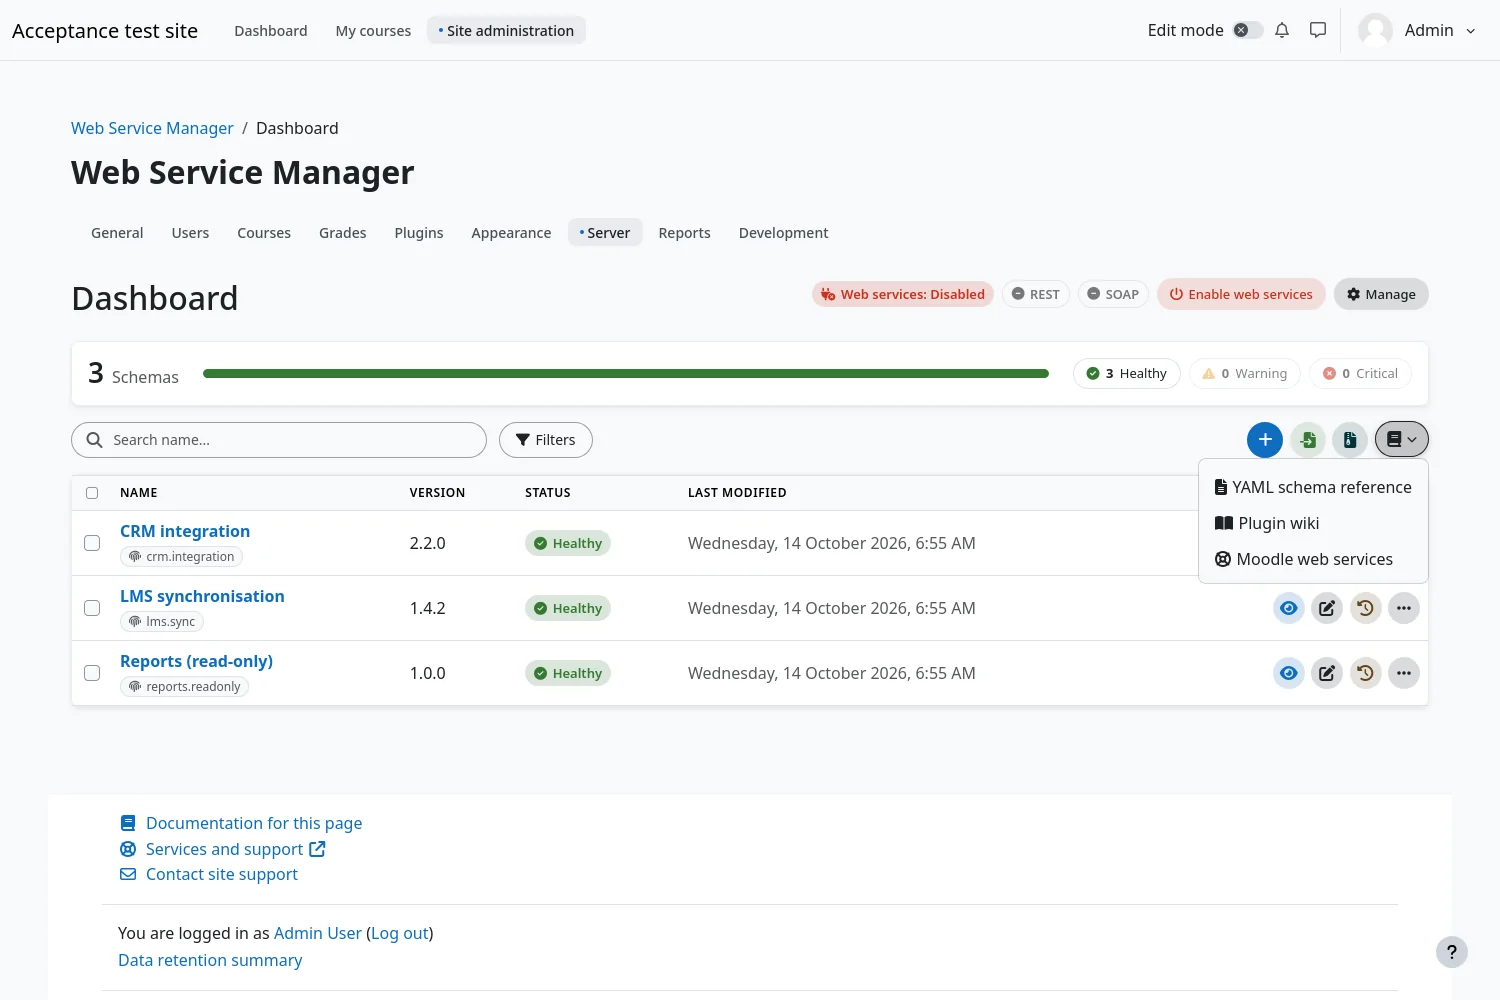
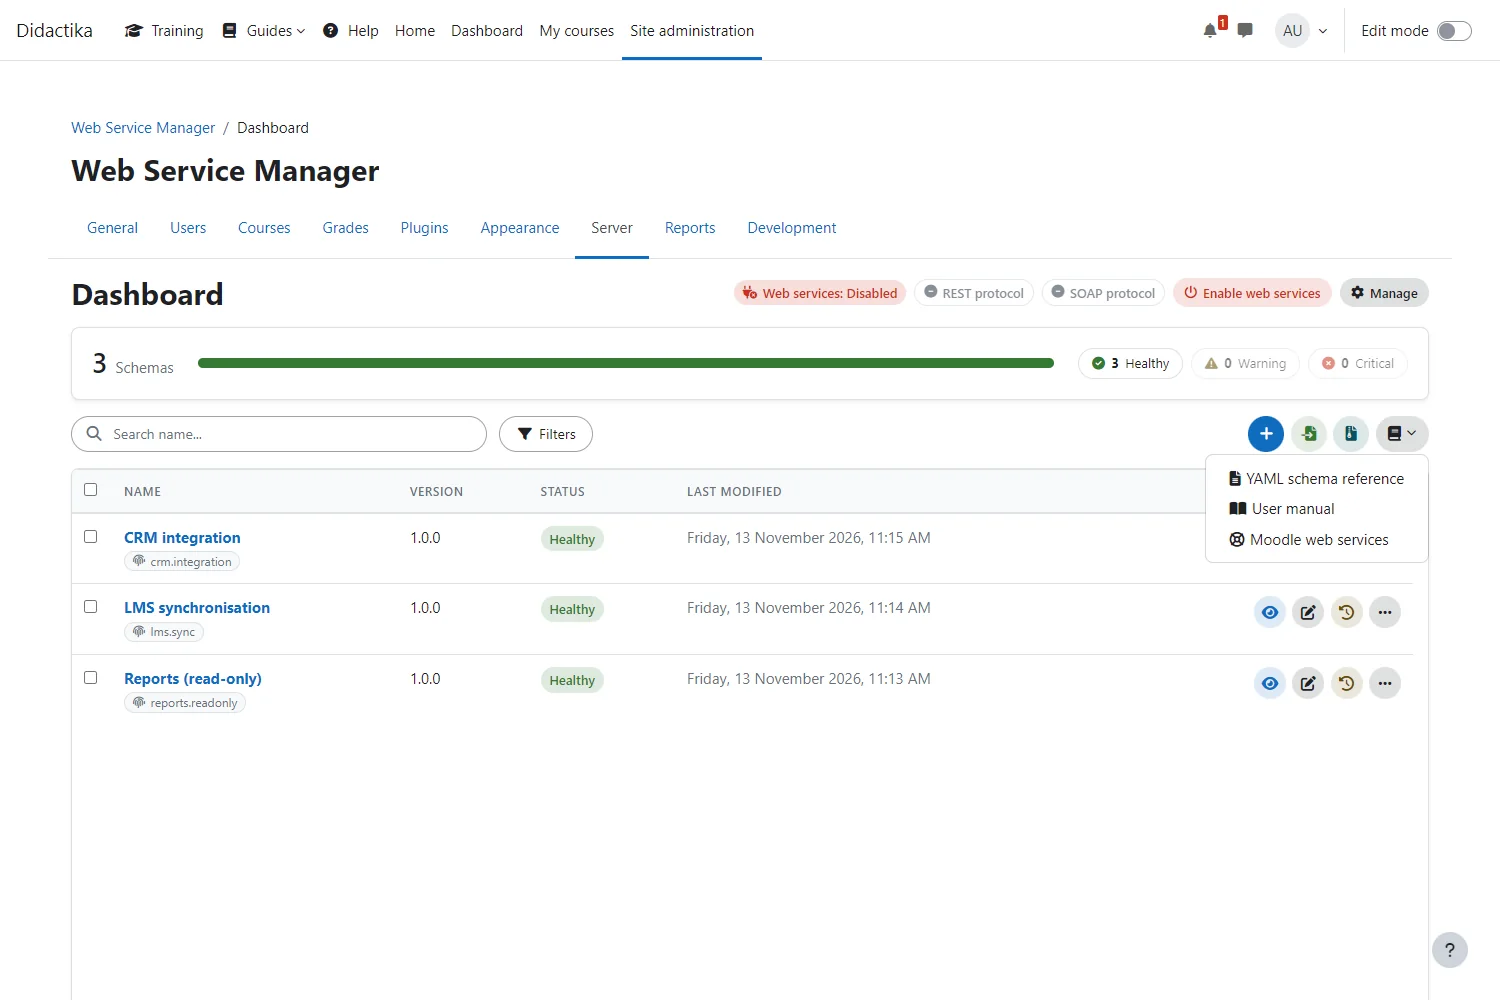
docs: the actions of the dashboard on a phone, and the documentation menu with the user manual
The guide of the dashboard says that on a narrow screen the four buttons are one
menu, and the screenshot of the documentation menu shows the entry of the user
manual in place of the wiki.

diff --git a/docs/es/guides/dashboard.md b/docs/es/guides/dashboard.md
@@ -54,6 +54,8 @@ A la derecha de la búsqueda hay cuatro botones:
 | Archivo azul | **Exportar todo**: todos los esquemas en un ZIP. |
 | Libro con una flecha pequeña | **Documentación**: un menú con la [referencia YAML](page:reference/yaml), este manual y la documentación de Moodle. |
 
+En una pantalla estrecha, como la de un teléfono, los cuatro botones se convierten en un único botón con tres puntos. Su menú contiene las mismas acciones y las entradas del menú de documentación, de modo que la búsqueda, **Filtros** y las acciones se mantienen en una sola fila.
+
 ![El menú de documentación](asset:dashboard-documentation-menu.webp)
 
 ## 6. Las acciones de un esquema

diff --git a/docs/en/guides/dashboard.md b/docs/en/guides/dashboard.md
@@ -63,6 +63,8 @@ At the right of the search there are four buttons:
 | Blue file | **Export all**: every schema in one ZIP. |
 | Book with a small arrow | **Documentation**: a menu with the [YAML reference](page:reference/yaml), this manual and the documentation of Moodle. |
 
+On a narrow screen, such as a phone, the four buttons become one button with three dots. Its menu holds the same actions and the entries of the documentation menu, so the search, **Filters** and the actions stay on one row.
+
 ![The documentation menu](asset:dashboard-documentation-menu.webp)
 
 ## 6. The actions of a schema
